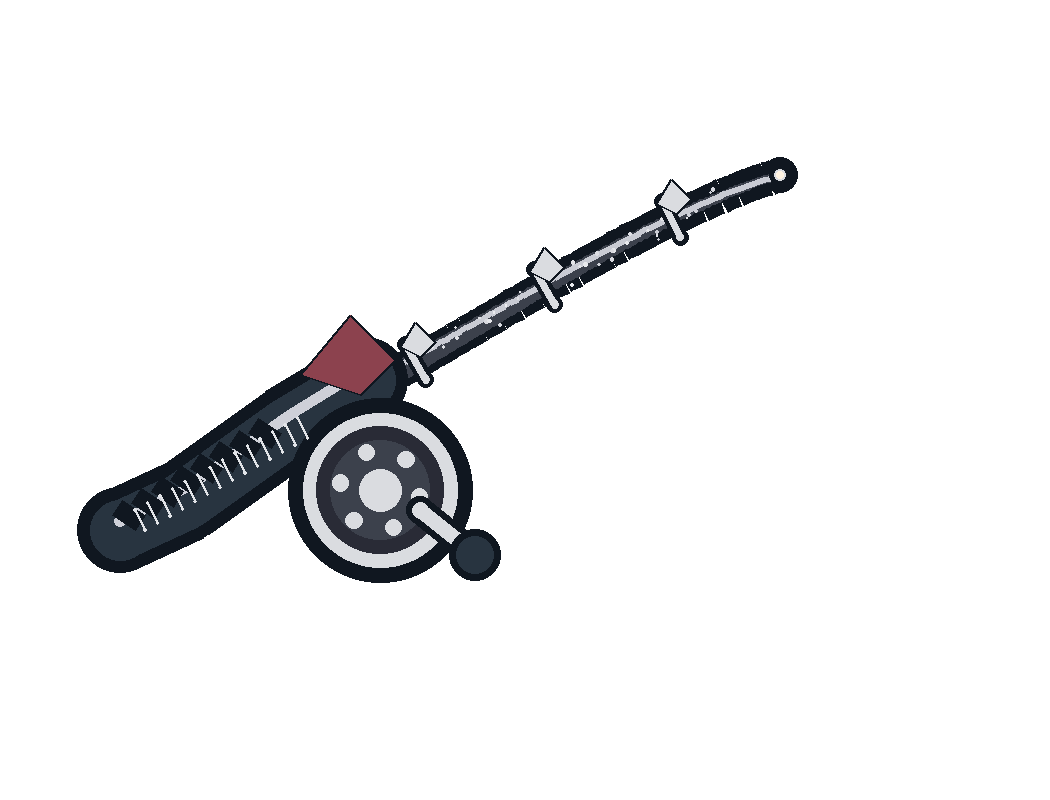
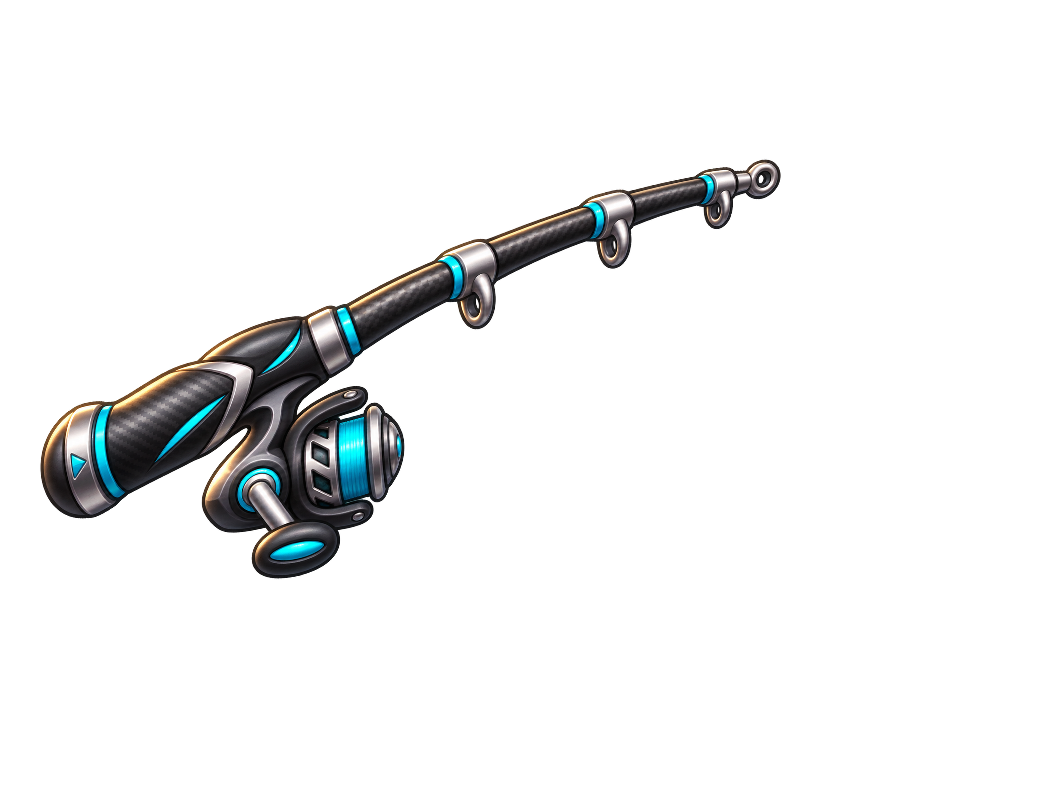
Use approved chunky hand-painted rods with clean transparent PNGs in fishing game

Changed region(s): [[0.0305, 0.1875, 0.7619, 0.75]]

diff --git a/human-fishing/index.html b/human-fishing/index.html
@@ -2310,7 +2310,7 @@ function drawOcto(now){
  }
  ctx.restore();
 }
-function rodBitmapPath(id){return './assets/rods/'+id+'.png?v=20261105-bitmap-rods1'}
+function rodBitmapPath(id){return './assets/rods/'+id+'.png?v=20261105-chunky-approved2'}
 // Six transparent 5x PNGs; the physically connected fishing line remains vector.
 var rodBitmapSprites={};
 ['cork','bamboo','marine','carbon','titan','abyss'].forEach(function(id){
@@ -2320,48 +2320,29 @@ var rodBitmapSprites={};
  im.src=rodBitmapPath(id);rodBitmapSprites[id]=im;
 });
 function drawRod(now){
- var worldTip=rodTip(now),tip={x:worldTip.x,y:worldTip.y-PLAYER_STAGE_DROP},base={x:536,y:191},gear=selectedGear('rod'),lv=gearLevel('rod',gear.id);
+ // Approved chunky, hand-painted transparent PNG rods. No vector rod fallback.
+ var worldTip=rodTip(now);
+ var tip={x:worldTip.x,y:worldTip.y-PLAYER_STAGE_DROP};
+ var base={x:536,y:191},gear=selectedGear('rod');
  var rodArt=rodBitmapSprites[gear.id];
- if(rodArt&&rodArt.ready){
-  // PNG rest tip is exactly (640,141), moving with rodTip during casts.
-  var dx=tip.x-base.x,dy=tip.y-base.y;
-  var angle=Math.atan2(dy,dx)-Math.atan2(-50,104);
-  var scale=Math.hypot(dx,dy)/Math.hypot(104,-50);
-  ctx.save();ctx.translate(base.x,base.y);ctx.rotate(angle);ctx.scale(scale,scale);
-  ctx.imageSmoothingEnabled=true;
-  ctx.drawImage(rodArt,484-base.x,106-base.y,210,160);
-  ctx.restore();
-  // Foreground tentacle grips the painted rod and never obscures the fishing line.
-  ctx.save();ctx.lineCap='round';ctx.strokeStyle='#7f3a4b';ctx.lineWidth=23;
-  ctx.beginPath();ctx.moveTo(500,230);ctx.quadraticCurveTo(549,219,538,187);ctx.stroke();
-  ctx.strokeStyle='#e9a08d';ctx.lineWidth=16;ctx.stroke();ctx.fillStyle='#ffd0ae';
-  ctx.beginPath();ctx.ellipse(540,195,9,7,.4,0,Math.PI*2);ctx.fill();ctx.restore();
-  return;
- }
- ctx.save();ctx.lineCap='round';ctx.lineJoin='round';ctx.shadowColor='#00121caa';ctx.shadowBlur=7;
- ctx.beginPath();ctx.moveTo(base.x,base.y);ctx.bezierCurveTo(mix(base.x,tip.x,.30),mix(base.y,tip.y,.20),mix(base.x,tip.x,.71),mix(base.y,tip.y,.65),tip.x,tip.y);
- ctx.strokeStyle='#111d28';ctx.lineWidth=12;ctx.stroke();ctx.shadowBlur=0;
- var g=ctx.createLinearGradient(base.x,base.y,tip.x,tip.y);
- g.addColorStop(0,gear.color);g.addColorStop(.68,lv>=5?'#e9d8ab':gear.color);g.addColorStop(1,'#e9f3e8');
- ctx.strokeStyle=g;ctx.lineWidth=6+gear.tier*.3;ctx.stroke();
- ctx.strokeStyle='#f7e6c799';ctx.lineWidth=1.4;ctx.stroke();
- for(var i=1;i<=4;i++){
-  var a=i/5,x=mix(base.x,tip.x,a),y=mix(base.y,tip.y,a)-10*Math.sin(a*Math.PI);
-  ctx.strokeStyle='#ecdfc9';ctx.lineWidth=2.4;ctx.beginPath();ctx.ellipse(x,y,6-a*3,8-a*3,.4,0,Math.PI*2);ctx.stroke();
- }
- ctx.strokeStyle='#724632';ctx.lineWidth=15;ctx.beginPath();ctx.moveTo(512,208);ctx.lineTo(561,180);ctx.stroke();
- ctx.strokeStyle=gear.color;ctx.lineWidth=9;ctx.stroke();
- ctx.beginPath();ctx.arc(565,201,15,0,Math.PI*2);ctx.fillStyle='#19353d';ctx.fill();ctx.strokeStyle='#d3d7c7';ctx.lineWidth=3;ctx.stroke();
- ctx.beginPath();ctx.arc(565,201,5,0,Math.PI*2);ctx.fillStyle='#f4d39c';ctx.fill();
- // The reel crank spins while the little octopus lure is being pulled in.
- var spin=feverFx&&feverFx.reeling?feverFx.reelProgress*Math.PI*12:0;
- var cx=565+Math.cos(spin)*23,cy=201+Math.sin(spin)*23;
- ctx.strokeStyle='#ffd9a1';ctx.lineWidth=3;ctx.beginPath();ctx.moveTo(565,201);ctx.lineTo(cx,cy);ctx.stroke();
- ctx.beginPath();ctx.arc(cx,cy,5,0,Math.PI*2);ctx.fillStyle='#daba86';ctx.fill();
- // Gripping tentacle wraps over the rod's cork handle.
- ctx.strokeStyle='#7f3a4b';ctx.lineWidth=23;ctx.beginPath();ctx.moveTo(500,230);ctx.quadraticCurveTo(549,219,538,187);ctx.stroke();
- ctx.strokeStyle='#e9a08d';ctx.lineWidth=16;ctx.stroke();ctx.fillStyle='#ffd0ae';
- ctx.beginPath();ctx.ellipse(540,195,9,7,.4,0,Math.PI*2);ctx.fill();
+ if(!rodArt||!rodArt.ready)return;
+ // Every transparent 5x sprite is laid out on the same 210x160 frame:
+ // gripped handle near (500,187), reel below, tip at (640,141).
+ // Affine pivot is applied only to follow the subtle cast/idle sway.
+ var dx=tip.x-base.x,dy=tip.y-base.y;
+ var angle=Math.atan2(dy,dx)-Math.atan2(-50,104);
+ var scale=Math.hypot(dx,dy)/Math.hypot(104,-50);
+ ctx.save();
+ ctx.translate(base.x,base.y);ctx.rotate(angle);ctx.scale(scale,scale);
+ ctx.imageSmoothingEnabled=true;
+ ctx.drawImage(rodArt,484-base.x,106-base.y,210,160);
+ ctx.restore();
+ // Player's tentacle still grips every rod in front of the bitmap.
+ ctx.save();ctx.lineCap='round';
+ ctx.strokeStyle='#7f3a4b';ctx.lineWidth=23;
+ ctx.beginPath();ctx.moveTo(500,230);ctx.quadraticCurveTo(549,219,538,187);ctx.stroke();
+ ctx.strokeStyle='#e9a08d';ctx.lineWidth=16;ctx.stroke();
+ ctx.fillStyle='#ffd0ae';ctx.beginPath();ctx.ellipse(540,195,9,7,.4,0,Math.PI*2);ctx.fill();
  ctx.restore();
 }
 // Dedicated depth layer for the small red fishing BAIT. Never draw it inside
